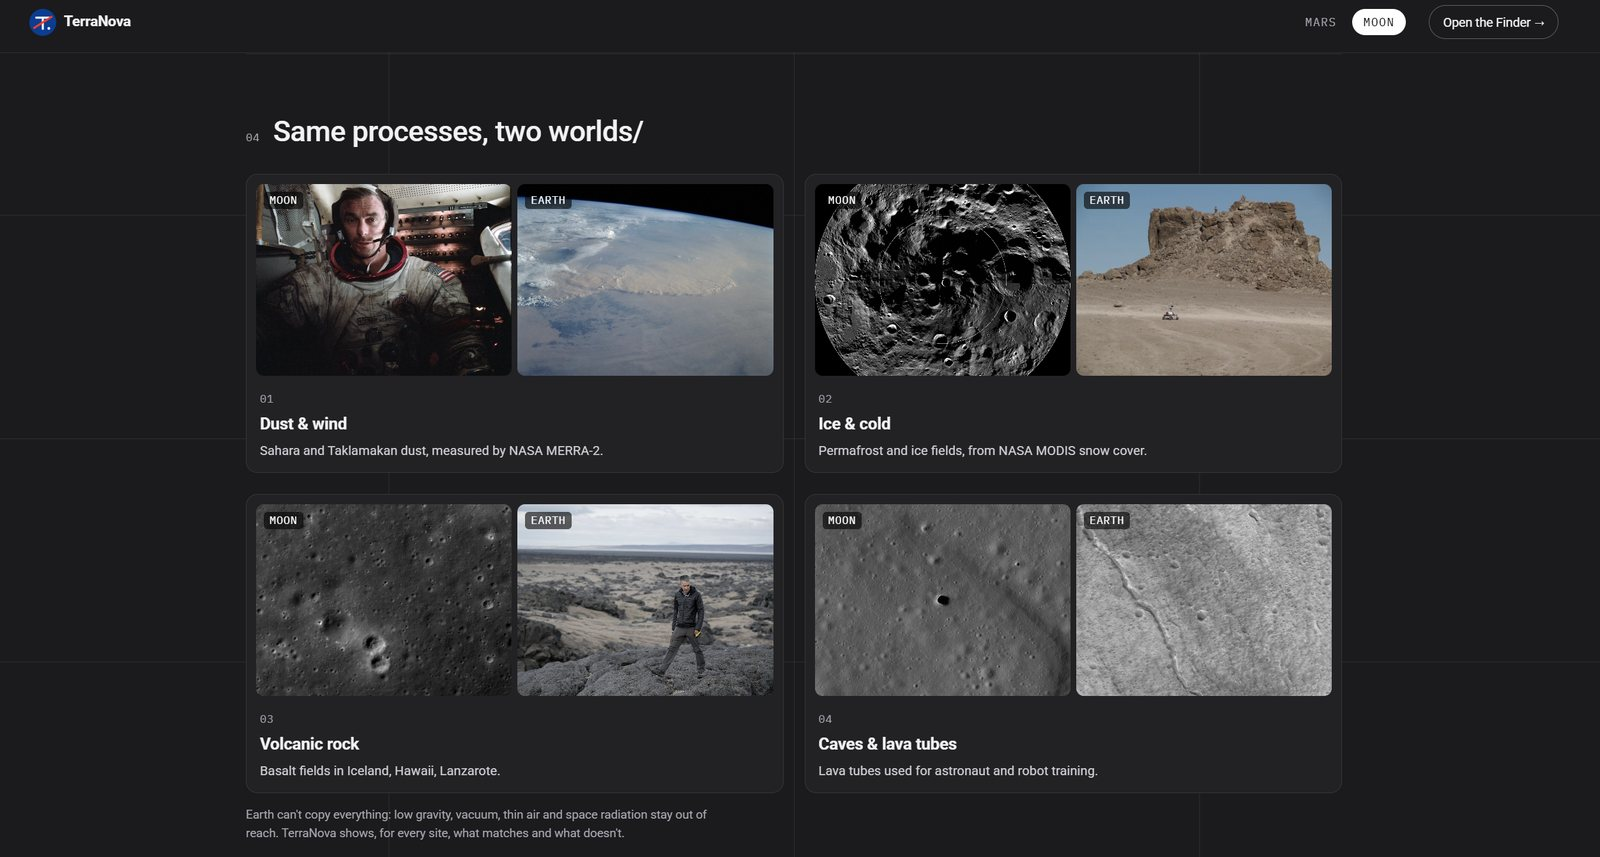
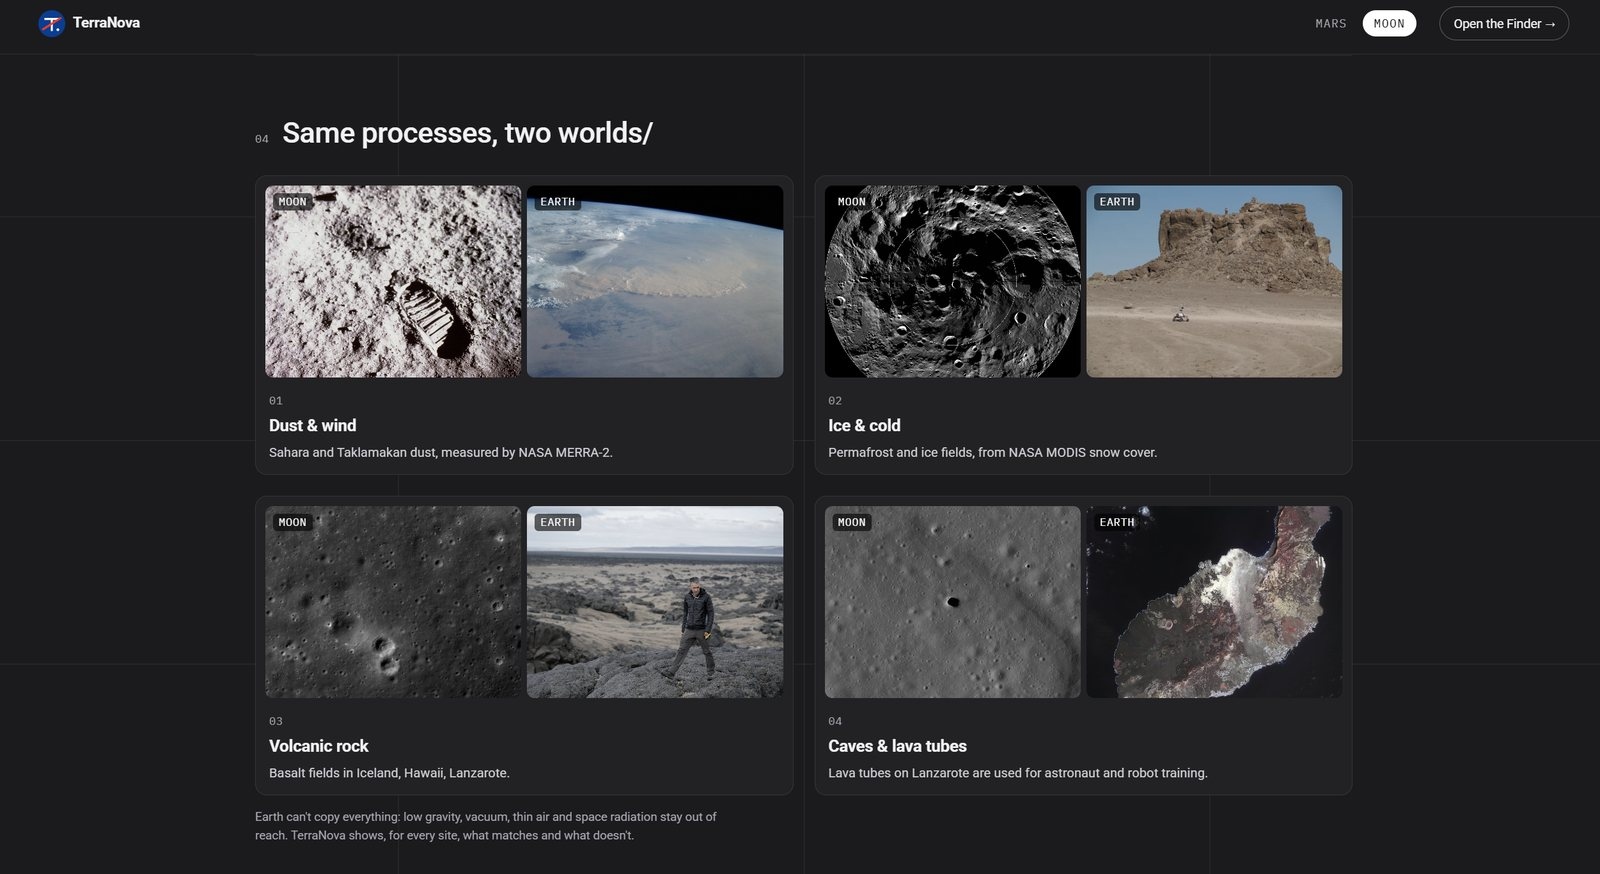
README: updated Learn page process screenshots; fix section links

diff --git a/README.md b/README.md
@@ -38,11 +38,11 @@ Open-source discovery platform that scores **78,247** land cells on Earth (0.5°
 </tr>
 <tr>
 <td width="50%" valign="top"><img src="docs/images/learn-moon.jpg" alt="Learn page: Moon"><br><b>Learn page: Moon</b><br><sub>An interactive intro for newcomers: a lunar day slider, Apollo training sites on Earth, processes and a quiz.</sub></td>
-<td width="50%" valign="top"><img src="docs/images/learn-mars.jpg" alt="Learn page: Mars"><br><b>Learn page: Mars</b><br><sub>Feel a Martian day and a dust storm, see where rovers were tested on Earth, and be the scientist.</sub></td>
+<td width="50%" valign="top"><img src="docs/images/learn-mars-day.jpg" alt="Feel a day on Mars"><br><b>Feel a day on Mars</b><br><sub>Drag the time and dust sliders: Mars temperature against the Atacama Desert, live.</sub></td>
 </tr>
 <tr>
-<td width="50%" valign="top"><img src="docs/images/learn-mars-day.jpg" alt="Feel a day on Mars"><br><b>Feel a day on Mars</b><br><sub>Drag the time and dust sliders: Mars temperature against the Atacama Desert, live.</sub></td>
-<td width="50%" valign="top"><img src="docs/images/learn-moon-processes.jpg" alt="Same processes, two worlds"><br><b>Same processes, two worlds</b><br><sub>Moon and Earth side by side: dust, ice, volcanic rock and lava-tube caves.</sub></td>
+<td width="50%" valign="top"><img src="docs/images/learn-mars-processes.jpg" alt="Same processes: Mars and Earth"><br><b>Same processes: Mars and Earth</b><br><sub>Dust storms, polar ice, Olympus Mons and lava-tube pits next to their Earth counterparts.</sub></td>
+<td width="50%" valign="top"><img src="docs/images/learn-moon-processes.jpg" alt="Same processes: Moon and Earth"><br><b>Same processes: Moon and Earth</b><br><sub>Lunar dust, polar craters, mare basalt and a lava-tube skylight next to Earth analogs.</sub></td>
 </tr>
 </table>
 
@@ -60,7 +60,7 @@ Open-source discovery platform that scores **78,247** land cells on Earth (0.5°
 8. [Repository layout](#repository-layout)
 9. [Quick start](#quick-start)
 10. [HTTP API (summary)](#http-api-summary)
-11. [Target, status, and roadmap](#target-and-status)
+11. [Target and status](#target-and-status)
 12. [Team and credits](#team-and-credits)
 13. [License](#license)
 
@@ -101,7 +101,7 @@ TerraNova treats analog search as an **operational proxy problem**: match the **
 
 **Design principle:** scoring at request time is **deterministic arithmetic** in `src/compute`—no LLM, no randomness, no network when `OFFLINE=1`.
 
-For **full vision vs what this repository ships today**, see [Target, status, and roadmap](#target-and-status).
+For **full vision vs what this repository ships today**, see [Target and status](#target-and-status).
 
 ---
 
@@ -218,7 +218,7 @@ Reproduce:
 OFFLINE=1 python -m scripts.check_controls
 ```
 
-**Interpretation:** validation shows the score **separates barren/analog-like land from rainforests and humid farmland** on a 0.5° grid—it is a **screening tool**, not a field geologic survey. See [Target, status, and roadmap](#target-and-status).
+**Interpretation:** validation shows the score **separates barren/analog-like land from rainforests and humid farmland** on a 0.5° grid—it is a **screening tool**, not a field geologic survey. See [Target and status](#target-and-status).
 
 Example control percentiles (lunar south pole target, from `check_controls`):
 
